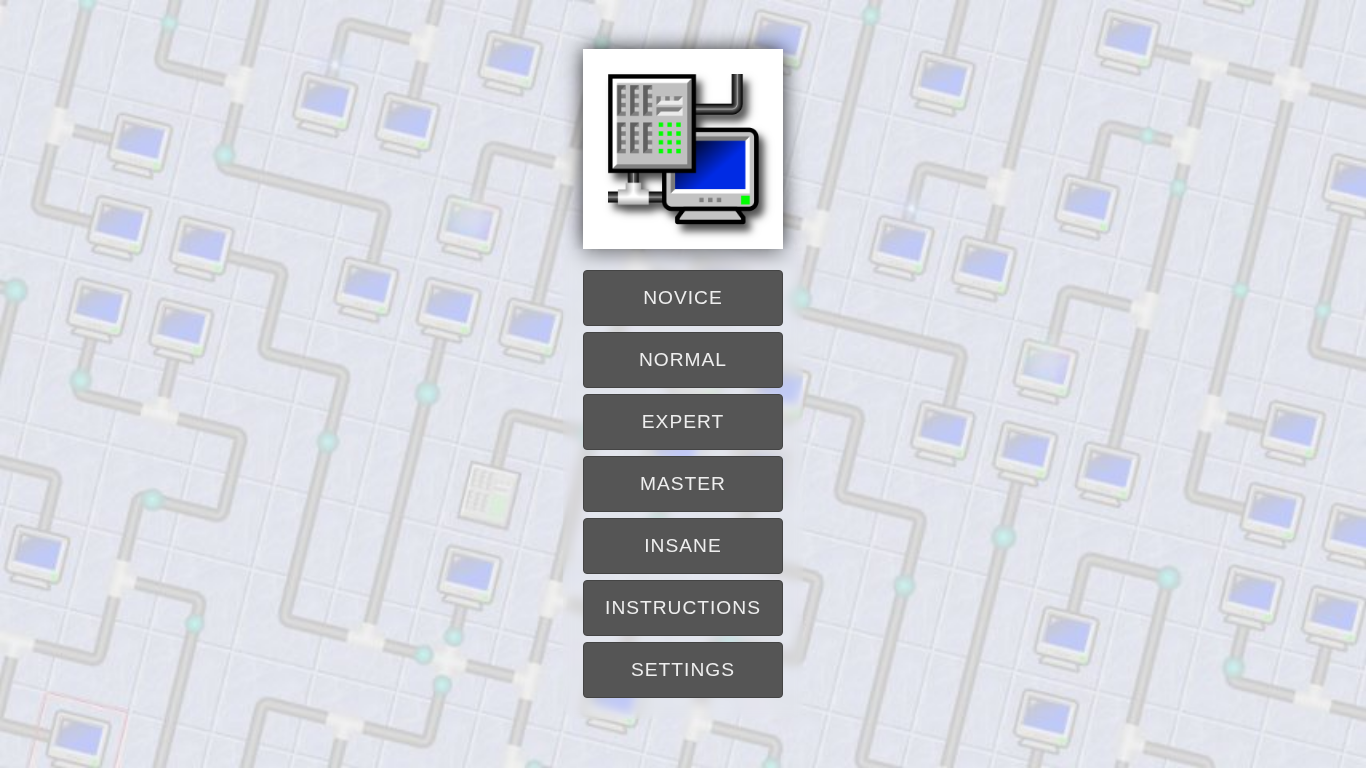
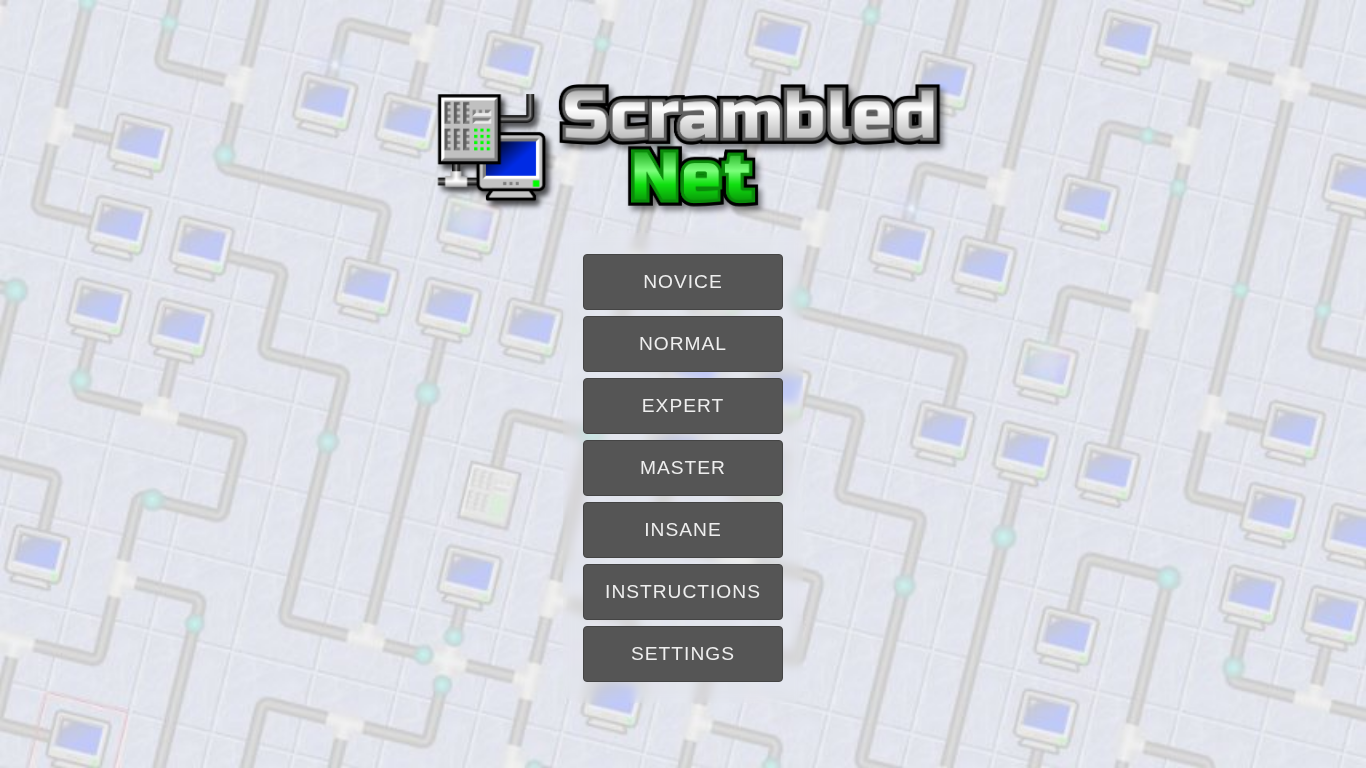
Fit start screen on landscape phones; update store screenshot
- On short landscape screens (max-height 520px) show the menu in two
  columns with smaller buttons so the title and all buttons fit
- Let the start screen scroll with "safe center" as a fallback so the
  top is never cut off
- Retake the wide-menu store screenshot with the new title logo

Claude-Session: https://claude.ai/code/session_0171do3bhVzHpcFAKXvLzBta

Changed region(s): [[0.3075, 0.0312, 0.7072, 0.9062]]

diff --git a/dist/sw.js b/dist/sw.js
@@ -1,1 +1,1 @@
-if(!self.define){let s,e={};const n=(n,l)=>(n=new URL(n+".js",l).href,e[n]||new Promise(e=>{if("document"in self){const s=document.createElement("script");s.src=n,s.onload=e,document.head.appendChild(s)}else s=n,importScripts(n),e()}).then(()=>{let s=e[n];if(!s)throw new Error(`Module ${n} didn’t register its module`);return s}));self.define=(l,i)=>{const r=s||("document"in self?document.currentScript.src:"")||location.href;if(e[r])return;let a={};const u=s=>n(s,r),o={module:{uri:r},exports:a,require:u};e[r]=Promise.all(l.map(s=>o[s]||u(s))).then(s=>(i(...s),a))}}define(["./workbox-66610c77"],function(s){"use strict";self.skipWaiting(),s.clientsClaim(),s.precacheAndRoute([{url:"privacy.html",revision:"cb524b5e333aa37f442f0344e7846779"},{url:"index.html",revision:"a7d5ac7f1e9774c771b37b93845652d3"},{url:"assets/workbox-window.prod.es5-BIl4cyR9.js",revision:null},{url:"assets/win-gtosV-FM.ogg",revision:null},{url:"assets/turn-B-D8cZGc.ogg",revision:null},{url:"assets/title.png",revision:null},{url:"assets/start-__lwOD39.ogg",revision:null},{url:"assets/splash_bg-ZdXsiPLJ.jpg",revision:null},{url:"assets/server-DpBucksn.png",revision:null},{url:"assets/pop-ChnFHagz.wav",revision:null},{url:"assets/logo.png",revision:null},{url:"assets/logo-N_YuRi-9.png",revision:null},{url:"assets/index-G7nzO39E.js",revision:null},{url:"assets/index-B-Ro7k9d.css",revision:null},{url:"assets/icon-maskable-512.png",revision:null},{url:"assets/icon-maskable-192.png",revision:null},{url:"assets/icon-192.png",revision:null},{url:"assets/computer2-CkaL-Yd7.png",revision:null},{url:"assets/computer1-CivAjFes.png",revision:null},{url:"assets/click-DIt4X5Fk.ogg",revision:null},{url:"assets/cable1111-DRG1sCjP.png",revision:null},{url:"assets/cable1110-Bx7ahU_h.png",revision:null},{url:"assets/cable1101-BYcpH5wm.png",revision:null},{url:"assets/cable1011-C7Mns-Tw.png",revision:null},{url:"assets/cable0111-DlfIZkO_.png",revision:null},{url:"assets/blip_t10-CrZCxuYJ.png",revision:null},{url:"assets/blip_t09-CGvrHgb0.png",revision:null},{url:"assets/blip_t08-BSx1p4l6.png",revision:null},{url:"assets/blip_t07-DpyAj7uQ.png",revision:null},{url:"assets/blip_t05-Jn8pFlnC.png",revision:null},{url:"assets/blip_t03-k-2oC7mb.png",revision:null},{url:"assets/blip_t01-VMZExXRo.png",revision:null},{url:"assets/background_locked-BX4r1n5J.png",revision:null},{url:"assets/background-DiGIscj1.png",revision:null},{url:"assets/apple-touch-icon.png",revision:null},{url:"privacy.html",revision:"cb524b5e333aa37f442f0344e7846779"},{url:"assets/apple-touch-icon.png",revision:"b778ad174ae297ead8134af155e74534"},{url:"assets/favicon.ico",revision:"b778ad174ae297ead8134af155e74534"},{url:"assets/icon-192.png",revision:"75710a6339c05df1adaf5cd872fb63c8"},{url:"assets/icon-maskable-192.png",revision:"92a8e5b2cf287a2fb3b2a28558a1a573"},{url:"assets/icon-maskable-512.png",revision:"c3a2e7a723308495a3d29a0495a6291c"},{url:"assets/logo.png",revision:"b778ad174ae297ead8134af155e74534"},{url:"manifest.webmanifest",revision:"76d96ab112615fa9efea7b7aa6801e2c"}],{}),s.cleanupOutdatedCaches(),s.registerRoute(new s.NavigationRoute(s.createHandlerBoundToURL("index.html"))),s.registerRoute(({request:s})=>"image"===s.destination,new s.CacheFirst({cacheName:"images",plugins:[new s.ExpirationPlugin({maxEntries:50,maxAgeSeconds:2592e3})]}),"GET"),s.registerRoute(({request:s})=>"audio"===s.destination,new s.CacheFirst({cacheName:"audio",plugins:[new s.ExpirationPlugin({maxEntries:10,maxAgeSeconds:2592e3})]}),"GET")});
+if(!self.define){let s,e={};const n=(n,l)=>(n=new URL(n+".js",l).href,e[n]||new Promise(e=>{if("document"in self){const s=document.createElement("script");s.src=n,s.onload=e,document.head.appendChild(s)}else s=n,importScripts(n),e()}).then(()=>{let s=e[n];if(!s)throw new Error(`Module ${n} didn’t register its module`);return s}));self.define=(l,i)=>{const r=s||("document"in self?document.currentScript.src:"")||location.href;if(e[r])return;let a={};const u=s=>n(s,r),o={module:{uri:r},exports:a,require:u};e[r]=Promise.all(l.map(s=>o[s]||u(s))).then(s=>(i(...s),a))}}define(["./workbox-66610c77"],function(s){"use strict";self.skipWaiting(),s.clientsClaim(),s.precacheAndRoute([{url:"privacy.html",revision:"cb524b5e333aa37f442f0344e7846779"},{url:"index.html",revision:"eb97307887ab4235980c84defb1c8a58"},{url:"assets/workbox-window.prod.es5-BIl4cyR9.js",revision:null},{url:"assets/win-gtosV-FM.ogg",revision:null},{url:"assets/turn-B-D8cZGc.ogg",revision:null},{url:"assets/title.png",revision:null},{url:"assets/start-__lwOD39.ogg",revision:null},{url:"assets/splash_bg-ZdXsiPLJ.jpg",revision:null},{url:"assets/server-DpBucksn.png",revision:null},{url:"assets/pop-ChnFHagz.wav",revision:null},{url:"assets/logo.png",revision:null},{url:"assets/logo-N_YuRi-9.png",revision:null},{url:"assets/index-DtQkYh1r.css",revision:null},{url:"assets/index-0cpe2bZi.js",revision:null},{url:"assets/icon-maskable-512.png",revision:null},{url:"assets/icon-maskable-192.png",revision:null},{url:"assets/icon-192.png",revision:null},{url:"assets/computer2-CkaL-Yd7.png",revision:null},{url:"assets/computer1-CivAjFes.png",revision:null},{url:"assets/click-DIt4X5Fk.ogg",revision:null},{url:"assets/cable1111-DRG1sCjP.png",revision:null},{url:"assets/cable1110-Bx7ahU_h.png",revision:null},{url:"assets/cable1101-BYcpH5wm.png",revision:null},{url:"assets/cable1011-C7Mns-Tw.png",revision:null},{url:"assets/cable0111-DlfIZkO_.png",revision:null},{url:"assets/blip_t10-CrZCxuYJ.png",revision:null},{url:"assets/blip_t09-CGvrHgb0.png",revision:null},{url:"assets/blip_t08-BSx1p4l6.png",revision:null},{url:"assets/blip_t07-DpyAj7uQ.png",revision:null},{url:"assets/blip_t05-Jn8pFlnC.png",revision:null},{url:"assets/blip_t03-k-2oC7mb.png",revision:null},{url:"assets/blip_t01-VMZExXRo.png",revision:null},{url:"assets/background_locked-BX4r1n5J.png",revision:null},{url:"assets/background-DiGIscj1.png",revision:null},{url:"assets/apple-touch-icon.png",revision:null},{url:"privacy.html",revision:"cb524b5e333aa37f442f0344e7846779"},{url:"assets/apple-touch-icon.png",revision:"b778ad174ae297ead8134af155e74534"},{url:"assets/favicon.ico",revision:"b778ad174ae297ead8134af155e74534"},{url:"assets/icon-192.png",revision:"75710a6339c05df1adaf5cd872fb63c8"},{url:"assets/icon-maskable-192.png",revision:"92a8e5b2cf287a2fb3b2a28558a1a573"},{url:"assets/icon-maskable-512.png",revision:"c3a2e7a723308495a3d29a0495a6291c"},{url:"assets/logo.png",revision:"b778ad174ae297ead8134af155e74534"},{url:"manifest.webmanifest",revision:"76d96ab112615fa9efea7b7aa6801e2c"}],{}),s.cleanupOutdatedCaches(),s.registerRoute(new s.NavigationRoute(s.createHandlerBoundToURL("index.html"))),s.registerRoute(({request:s})=>"image"===s.destination,new s.CacheFirst({cacheName:"images",plugins:[new s.ExpirationPlugin({maxEntries:50,maxAgeSeconds:2592e3})]}),"GET"),s.registerRoute(({request:s})=>"audio"===s.destination,new s.CacheFirst({cacheName:"audio",plugins:[new s.ExpirationPlugin({maxEntries:10,maxAgeSeconds:2592e3})]}),"GET")});

diff --git a/dist/assets/index-DtQkYh1r.css b/dist/assets/index-DtQkYh1r.css
@@ -1,0 +1,1 @@
+@charset "UTF-8";body,html{margin:0;padding:0;width:100%;height:100%;overflow:hidden;background-color:#222;color:#eee;font-family:Segoe UI,Tahoma,Geneva,Verdana,sans-serif;display:flex;flex-direction:column}#start-screen{position:absolute;top:50%;left:50%;transform:translate(-50%,-50%);text-align:center;background:url(./splash_bg-ZdXsiPLJ.jpg) no-repeat center center;background-size:cover;width:100%;height:100%;display:flex;flex-direction:column;justify-content:center;justify-content:safe center;overflow-y:auto;align-items:center;z-index:100}.game-logo{width:auto;height:auto;max-width:min(90%,560px);max-height:22vh}.difficulty-menu{display:flex;flex-direction:column;gap:4px;background-color:#0000;padding:20px;border-radius:15px;-webkit-backdrop-filter:blur(5px);backdrop-filter:blur(5px)}#instructions-screen,#settings-screen,#ingame-menu-screen{position:fixed;top:0;left:0;width:100%;height:100%;background-color:#000000d9;display:flex;justify-content:center;align-items:center;z-index:200;-webkit-backdrop-filter:blur(5px);backdrop-filter:blur(5px)}.modal-content{background-color:#1a1a1a;padding:30px;border-radius:15px;max-width:90%;width:400px;text-align:center;color:#ecf0f1;border:2px solid #34495e;box-shadow:0 0 20px #00000080;display:flex;flex-direction:column;gap:15px}.modal-content h2{color:#3498db;margin-bottom:10px;font-size:2rem;text-transform:uppercase;letter-spacing:2px}.modal-content p{margin-bottom:10px;line-height:1.6;color:#bdc3c7}.modal-actions{margin-top:20px;display:flex;justify-content:center}.instructions-modal{width:600px;max-height:80vh;overflow-y:auto}.instructions-text{text-align:left;padding-right:10px}.instructions-text h3{color:#3498db;margin-top:20px;margin-bottom:10px;border-bottom:1px solid #34495e;padding-bottom:5px}.instructions-text ul{list-style-type:none;padding-left:0}.instructions-text li{margin-bottom:8px;padding-left:15px;position:relative;color:#bdc3c7}.instructions-text li:before{content:"►";position:absolute;left:0;color:#3498db;font-size:.8em;top:3px}.setting-row{display:flex;justify-content:space-between;align-items:center;margin-bottom:10px;padding:10px;background-color:#2c3e50;border-radius:8px}.setting-row label{font-size:1.1rem;font-weight:700}.setting-row select,.setting-row input[type=checkbox]{padding:8px;border-radius:5px;border:none;background-color:#ecf0f1;color:#2c3e50;font-weight:700;cursor:pointer}.setting-row input[type=checkbox]{width:25px;height:25px;accent-color:#3498db}.instructions-content{max-width:600px;background:#00000080;padding:2rem;border-radius:10px;border:1px solid #444}.instructions-content h2{color:#0f0;text-shadow:0 0 10px rgba(0,255,0,.5);margin-bottom:1rem}.instructions-content p{font-size:1.1rem;line-height:1.6;margin-bottom:1rem}.start-hint{font-weight:700;color:#fff;margin-top:2rem}#game-screen{flex:1;display:flex;flex-direction:column;width:100%;height:100%;overflow:hidden}#game-container{position:relative;flex:1;width:100%;display:flex;justify-content:center;align-items:center;overflow:hidden;background-color:#000;background-image:url(./background-DiGIscj1.png);background-repeat:repeat}.game-title{font-size:4rem;margin-bottom:3rem;text-shadow:0 0 20px #0f0,0 0 10px #00f;text-align:center;color:#fff;font-weight:300;letter-spacing:2px}.menu-btn{display:block;width:200px;padding:1rem;margin:1px auto;font-size:1.2rem;background-color:#555;color:#eee;border:1px solid #444;border-radius:4px;cursor:pointer;transition:all .2s ease;text-transform:uppercase;letter-spacing:1px}.menu-btn:hover{background-color:#555;border-color:#00c3ff;box-shadow:0 0 10px #0f03}.control-btn{padding:.8rem 1.5rem;background:transparent;border:none;color:#888;font-size:1rem;cursor:pointer;text-transform:uppercase}.control-btn:hover{color:#fff}#top-bar{padding:10px 20px;background-color:#111;border-bottom:1px solid #333;display:flex;justify-content:center}#bottom-bar{padding:10px 20px;background-color:#111;border-top:1px solid #333;display:flex;justify-content:space-between}.stats-container{display:flex;gap:2rem}.stats-container p{font-size:1.2rem;margin:0;color:#aaa}.stats-container span{color:#0f0;font-weight:700;margin-left:5px}canvas{touch-action:none;image-rendering:pixelated;max-width:100%;max-height:100%;box-shadow:0 0 20px #00000080}#ui-overlay{position:absolute;top:0;left:0;width:100%;height:100%;background-color:#000c;display:flex;flex-direction:column;justify-content:center;align-items:center;z-index:10;-webkit-backdrop-filter:blur(5px);backdrop-filter:blur(5px)}.overlay-buttons{display:flex;gap:1rem;margin-top:2rem}.hidden{display:none!important}h1#message{font-size:3rem;margin-bottom:1rem;color:#0f0;text-shadow:0 0 20px rgba(0,255,0,.5)}@media(max-width:600px){.game-title{font-size:2.5rem}.menu-btn{width:160px;padding:.8rem;font-size:1rem}.stats-container{gap:1rem}.stats-container p{font-size:1rem}}@media(orientation:landscape)and (max-height:520px){.game-logo{max-height:24vh}.difficulty-menu{display:grid;grid-template-columns:repeat(2,auto);gap:6px 12px;padding:10px}.difficulty-menu .menu-btn{width:180px;padding:.55rem;font-size:1rem}#skill-insane,#install-btn{grid-column:1/-1;justify-self:center}}

diff --git a/style.scss b/style.scss
@@ -52,6 +52,9 @@ html {
     display: flex;
     flex-direction: column;
     justify-content: center;
+    // Keep the top reachable if the content is ever taller than the screen
+    justify-content: safe center;
+    overflow-y: auto;
     align-items: center;
     z-index: 100;
 }
@@ -385,5 +388,33 @@ h1#message {
         p {
             font-size: 1rem;
         }
+    }
+}
+
+/* Short landscape screens (phones on their side): two-column menu */
+@media (orientation: landscape) and (max-height: 520px) {
+    .game-logo {
+        max-height: 24vh;
+    }
+
+    .difficulty-menu {
+        display: grid;
+        grid-template-columns: repeat(2, auto);
+        gap: 6px 12px;
+        padding: 10px;
+    }
+
+    .difficulty-menu .menu-btn {
+        width: 180px;
+        padding: 0.55rem;
+        font-size: 1rem;
+    }
+
+    // Odd one out gets its own centred row: Novice/Normal, Expert/Master,
+    // Insane, Instructions/Settings, (Install)
+    #skill-insane,
+    #install-btn {
+        grid-column: 1 / -1;
+        justify-self: center;
     }
 }

diff --git a/dist/index.html b/dist/index.html
@@ -9,8 +9,8 @@
     <link rel="apple-touch-icon" href="./assets/logo-N_YuRi-9.png">
     <meta name="theme-color" content="#222222">
     <meta name="description" content="A puzzle game to connect the network">
-  <script type="module" crossorigin src="./assets/index-G7nzO39E.js"></script>
-  <link rel="stylesheet" crossorigin href="./assets/index-B-Ro7k9d.css">
+  <script type="module" crossorigin src="./assets/index-0cpe2bZi.js"></script>
+  <link rel="stylesheet" crossorigin href="./assets/index-DtQkYh1r.css">
 <link rel="manifest" href="./manifest.webmanifest"></head>
 
 <body>
